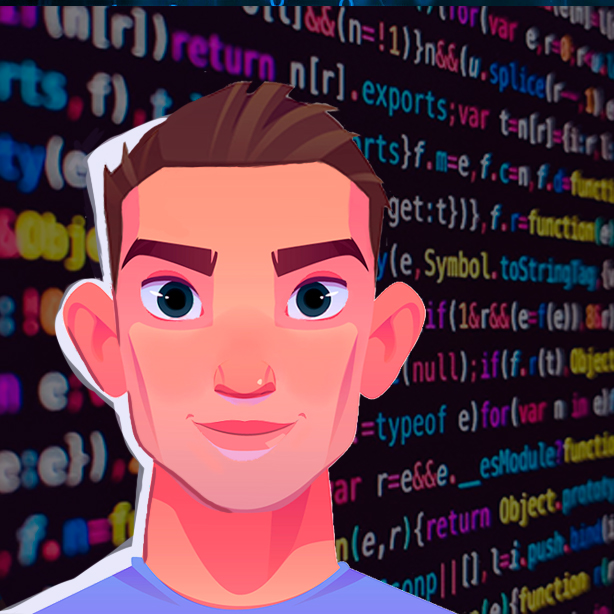
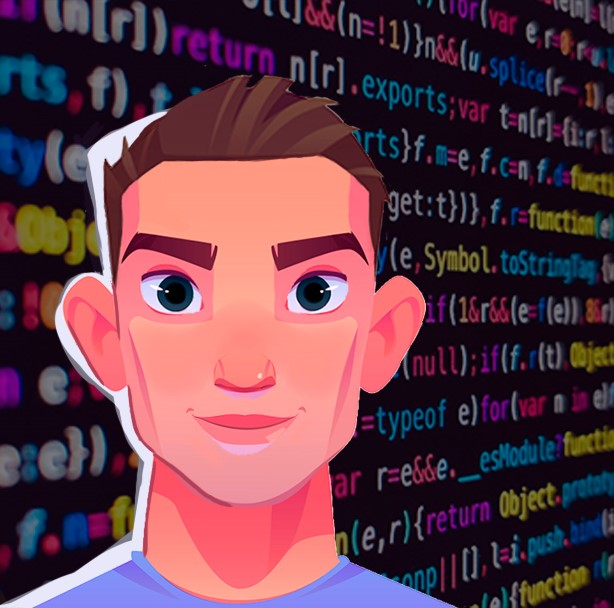
firefox bug fixed

diff --git a/app/css/style.min.css b/app/css/style.min.css
@@ -2,4 +2,4 @@
 
 /*! normalize.css v8.0.1 | MIT License | github.com/necolas/normalize.css */html{line-height:1.15;-webkit-text-size-adjust:100%}body{margin:0}main{display:block}h1{font-size:2em;margin:0.67em 0}hr{-webkit-box-sizing:content-box;box-sizing:content-box;height:0;overflow:visible}pre{font-family:monospace, monospace;font-size:1em}a{background-color:transparent}abbr[title]{border-bottom:none;text-decoration:underline;-webkit-text-decoration:underline dotted;text-decoration:underline dotted}b,strong{font-weight:bolder}code,kbd,samp{font-family:monospace, monospace;font-size:1em}small{font-size:80%}sub,sup{font-size:75%;line-height:0;position:relative;vertical-align:baseline}sub{bottom:-0.25em}sup{top:-0.5em}img{border-style:none}button,input,optgroup,select,textarea{font-family:inherit;font-size:100%;line-height:1.15;margin:0}button,input{overflow:visible}button,select{text-transform:none}button,[type="button"],[type="reset"],[type="submit"]{-webkit-appearance:button}button::-moz-focus-inner,[type="button"]::-moz-focus-inner,[type="reset"]::-moz-focus-inner,[type="submit"]::-moz-focus-inner{border-style:none;padding:0}button:-moz-focusring,[type="button"]:-moz-focusring,[type="reset"]:-moz-focusring,[type="submit"]:-moz-focusring{outline:1px dotted ButtonText}fieldset{padding:0.35em 0.75em 0.625em}legend{-webkit-box-sizing:border-box;box-sizing:border-box;color:inherit;display:table;max-width:100%;padding:0;white-space:normal}progress{vertical-align:baseline}textarea{overflow:auto}[type="checkbox"],[type="radio"]{-webkit-box-sizing:border-box;box-sizing:border-box;padding:0}[type="number"]::-webkit-inner-spin-button,[type="number"]::-webkit-outer-spin-button{height:auto}[type="search"]{-webkit-appearance:textfield;outline-offset:-2px}[type="search"]::-webkit-search-decoration{-webkit-appearance:none}::-webkit-file-upload-button{-webkit-appearance:button;font:inherit}details{display:block}summary{display:list-item}template{display:none}[hidden]{display:none}
 
-html{-webkit-box-sizing:border-box;box-sizing:border-box}*,*:before,*:after{-webkit-box-sizing:inherit;box-sizing:inherit;margin:0;padding:0}body{font-family:'Oswald', sans-serif;overflow:hidden}a{text-decoration:none;display:inline-block;color:#000}h1,h2,h3,h4,h6,h5,p{margin:0;font-size:15px;padding:0;font-weight:400}li{display:inline-block}.container{padding:50px 25px}.main{background-image:url("../img/bck.jpg");background-size:cover;background-repeat:no-repeat;background-position:center;background-color:#bebebe;height:100vh;width:100%;display:-webkit-box;display:-ms-flexbox;display:flex;-webkit-box-align:center;-ms-flex-align:center;align-items:center;-webkit-box-pack:center;-ms-flex-pack:center;justify-content:center}.album{position:relative;height:600px;width:600px;-webkit-perspective:1600px;perspective:1600px}.album__sheet{width:100%;height:100%;-webkit-transform-style:preserve-3d;transform-style:preserve-3d;position:absolute}.album__sheet-first{z-index:5;-webkit-transform-origin:left center;-ms-transform-origin:left center;transform-origin:left center}.album__sheet-first.open{-webkit-animation:album-open 0.5s 0s both;animation:album-open 0.5s 0s both}.album__sheet-first.close{-webkit-animation:album-close 0.5s 0.5s both;animation:album-close 0.5s 0.5s both}.album__sheet-second{z-index:3}.album__sheet-third{z-index:4;-webkit-transform-origin:right center;-ms-transform-origin:right center;transform-origin:right center}.album__sheet-third.open{-webkit-animation:album-open-back 0.5s 0.5s both;animation:album-open-back 0.5s 0.5s both}.album__sheet-third.close{-webkit-animation:album-close-back 0.5s 0s both;animation:album-close-back 0.5s 0s both}.album__page{position:absolute;left:0;top:0;width:100%;height:100%;-webkit-backface-visibility:hidden;backface-visibility:hidden;-webkit-animation-fill-mode:both;animation-fill-mode:both;-webkit-box-shadow:0 0 10px rgba(0,0,0,0.5);box-shadow:0 0 10px rgba(0,0,0,0.5);background-image:url("../img/paper.jpeg");background-size:cover;background-position:center;background-repeat:no-repeat}.page__front{color:#fff;background-image:url("../img/front-2.jpg");background-size:contain;background-position:center;background-repeat:no-repeat;background-color:#37b6ce;font-weight:700;text-transform:uppercase;z-index:3;text-shadow:0 0 5px #000}.page__front-title{margin-top:30px;text-align:center;font-size:50px;font-weight:700;text-shadow:#253e45 -1px 1px 0, #253e45 -2px 2px 0, #d45848 -3px 3px 0, #d45848 -4px 4px 0}.page__front-subtitle{text-align:center;margin-top:15px;font-size:23px;color:#ffbf40}.page__front-items{margin-top:70px;margin-left:30px;display:-webkit-box;display:-ms-flexbox;display:flex;-webkit-box-orient:vertical;-webkit-box-direction:normal;-ms-flex-direction:column;flex-direction:column}.front__item-title{font-size:20px;color:#ffaa00;font-weight:700}.front__item-subtitle{font-size:24px}.front__item:not(:last-child){margin-bottom:70px}.inner-page{overflow-y:auto}.inner-page__title-wrapper{position:relative;text-align:center}.inner-page__title-wrapper:before{content:"";width:100%;height:1px;background-color:#ccc;position:absolute;top:50%;left:0;z-index:-1}.inner-page__title{padding:10px 20px;background-color:#333;color:#fff;text-transform:uppercase;font-size:22px;border-radius:8px}.page__1{background-color:white;-webkit-transform:rotateY(160deg);transform:rotateY(160deg);left:-600px;-webkit-transform-origin:right center;-ms-transform-origin:right center;transform-origin:right center}.about__items{margin-top:50px}.about__item{position:relative;margin-left:80px;line-height:22px}.about__item:not(:last-child){margin-bottom:20px}.about__item::before{content:"";position:absolute;left:-60px;background-image:url(../img/java.svg);background-position:center;background-size:cover;height:40px;width:40px}.java-item::before{background-image:url(../img/java.svg)}.android-item::before{background-image:url(../img/android.svg)}.html-item::before{background-image:url(../img/html.svg)}.setting-item::before{background-image:url(../img/setting.svg)}.about__books{width:100%}.page__2{z-index:1}.works__items{margin-top:30px;display:-webkit-box;display:-ms-flexbox;display:flex;-webkit-box-pack:justify;-ms-flex-pack:justify;justify-content:space-between;-ms-flex-wrap:wrap;flex-wrap:wrap}.works__item{margin-bottom:10px;-webkit-box-shadow:0 0 2px #333;box-shadow:0 0 2px #333;background-position:center;background-repeat:no-repeat;background-size:cover;cursor:-webkit-zoom-in;cursor:zoom-in;width:150px;height:150px;background-color:#b348d4;margin-top:20px;-webkit-filter:grayscale(0.8);filter:grayscale(0.8);-webkit-transition:-webkit-filter 0.5s;transition:-webkit-filter 0.5s;-o-transition:filter 0.5s;transition:filter 0.5s;transition:filter 0.5s, -webkit-filter 0.5s}.works__item:hover{-webkit-filter:grayscale(0);filter:grayscale(0)}.page__3{left:600px;-webkit-transform-origin:left center;-ms-transform-origin:left center;transform-origin:left center;-webkit-transform:rotateY(-160deg);transform:rotateY(-160deg)}.page__back{background:blue;-webkit-transform-origin:right center;-ms-transform-origin:right center;transform-origin:right center;z-index:2}.connect__cancel{position:absolute;background-image:url("../img/cancel.svg");width:30px;height:30px;background-size:cover;top:15px;right:20px;cursor:pointer}.album__btn{position:absolute;background-color:transparent;bottom:10px;right:20px;height:70px;width:50px;cursor:pointer;border:none}.album__btn:before{content:"";display:block;border-top:25px solid #d4485b;border-left:25px solid #d4485b;border-right:25px solid #d4485b;border-bottom:50px solid transparent}.album__btn.show{-webkit-animation:btn_show 1s 1s both, btn_twitch 2s 2s infinite;animation:btn_show 1s 1s both, btn_twitch 2s 2s infinite}.album__btn.close{-webkit-animation:btn_close 1s both;animation:btn_close 1s both}.connect__line{width:100%}.coonect__input-wrapper{display:-webkit-box;display:-ms-flexbox;display:flex;margin-bottom:10px}.connect__form-name,.connect__form-email,.connect__form-text{background-color:transparent;border-top:none;border-left:none;border-right:none;border-bottom:1ps solid #333;resize:none;padding:10px}.connect__form-name{-webkit-box-flex:3;-ms-flex-positive:3;flex-grow:3}.connect__form-email{-webkit-box-flex:1;-ms-flex-positive:1;flex-grow:1;margin-left:5px}.connect__form-text{display:block;width:100%}.connect__form-button{display:block;width:100px;height:50px;margin:10px 0 0 auto;color:#fff;background-color:#333;cursor:pointer}.connect__map{width:100%;height:200px;margin-top:50px}.popups{position:absolute;cursor:-webkit-zoom-out;cursor:zoom-out;display:-webkit-box;display:-ms-flexbox;display:flex;-webkit-box-pack:center;-ms-flex-pack:center;justify-content:center;-webkit-box-align:center;-ms-flex-align:center;align-items:center;width:100%;height:100%;background-color:rgba(35,55,61,0.7);top:0;left:0;visibility:hidden;-webkit-transition:all 0.3s;-o-transition:all 0.3s;transition:all 0.3s;opacity:0}.popups.open{visibility:visible;opacity:1}.popup{width:1000px;display:none;-webkit-box-shadow:0 0 5px #000;box-shadow:0 0 5px #000;background-color:#ebe9dc}.popup.open{display:block}.popup .popup__img{height:85%}.popup__img{cursor:pointer;width:100%}.popup__text{padding:25px 10px;text-align:center;font-size:18px}@-webkit-keyframes album-open{from{-webkit-transform:rotateY(0deg);transform:rotateY(0deg)}to{-webkit-transform:rotateY(-160deg);transform:rotateY(-160deg)}}@keyframes album-open{from{-webkit-transform:rotateY(0deg);transform:rotateY(0deg)}to{-webkit-transform:rotateY(-160deg);transform:rotateY(-160deg)}}@-webkit-keyframes album-open-back{from{-webkit-transform:rotateY(0deg);transform:rotateY(0deg)}to{-webkit-transform:rotateY(160deg);transform:rotateY(160deg)}}@keyframes album-open-back{from{-webkit-transform:rotateY(0deg);transform:rotateY(0deg)}to{-webkit-transform:rotateY(160deg);transform:rotateY(160deg)}}@-webkit-keyframes album-close-back{from{-webkit-transform:rotateY(160deg);transform:rotateY(160deg)}to{-webkit-transform:rotateY(0deg);transform:rotateY(0deg)}}@keyframes album-close-back{from{-webkit-transform:rotateY(160deg);transform:rotateY(160deg)}to{-webkit-transform:rotateY(0deg);transform:rotateY(0deg)}}@-webkit-keyframes album-close{from{-webkit-transform:rotateY(-160deg);transform:rotateY(-160deg)}to{-webkit-transform:rotateY(0deg);transform:rotateY(0deg)}}@keyframes album-close{from{-webkit-transform:rotateY(-160deg);transform:rotateY(-160deg)}to{-webkit-transform:rotateY(0deg);transform:rotateY(0deg)}}@-webkit-keyframes album-page-1-open{from{-webkit-transform:rotateY(160deg);transform:rotateY(160deg)}to{-webkit-transform:rotateY(0deg);transform:rotateY(0deg)}}@keyframes album-page-1-open{from{-webkit-transform:rotateY(160deg);transform:rotateY(160deg)}to{-webkit-transform:rotateY(0deg);transform:rotateY(0deg)}}@-webkit-keyframes album-page-1-close{from{-webkit-transform:rotateY(0deg);transform:rotateY(0deg)}to{-webkit-transform:rotateY(160deg);transform:rotateY(160deg)}}@keyframes album-page-1-close{from{-webkit-transform:rotateY(0deg);transform:rotateY(0deg)}to{-webkit-transform:rotateY(160deg);transform:rotateY(160deg)}}@-webkit-keyframes album-page-3-open{from{-webkit-transform:rotateY(-160deg);transform:rotateY(-160deg)}to{-webkit-transform:rotateY(0deg);transform:rotateY(0deg)}}@keyframes album-page-3-open{from{-webkit-transform:rotateY(-160deg);transform:rotateY(-160deg)}to{-webkit-transform:rotateY(0deg);transform:rotateY(0deg)}}@-webkit-keyframes album-page-3-close{from{-webkit-transform:rotateY(0deg);transform:rotateY(0deg)}to{-webkit-transform:rotateY(-160deg);transform:rotateY(-160deg)}}@keyframes album-page-3-close{from{-webkit-transform:rotateY(0deg);transform:rotateY(0deg)}to{-webkit-transform:rotateY(-160deg);transform:rotateY(-160deg)}}@-webkit-keyframes btn_twitch{0%{bottom:-65px}33%{bottom:-55px}66%{bottom:-65px}}@keyframes btn_twitch{0%{bottom:-65px}33%{bottom:-55px}66%{bottom:-65px}}@-webkit-keyframes btn_show{from{bottom:10px}to{bottom:-65px}}@keyframes btn_show{from{bottom:10px}to{bottom:-65px}}@-webkit-keyframes btn_close{from{bottom:-65px}to{bottom:10px}}@keyframes btn_close{from{bottom:-65px}to{bottom:10px}}
+html{-webkit-box-sizing:border-box;box-sizing:border-box}*,*:before,*:after{-webkit-box-sizing:inherit;box-sizing:inherit;margin:0;padding:0}body{font-family:'Oswald', sans-serif;overflow:hidden}a{text-decoration:none;display:inline-block;color:#000}h1,h2,h3,h4,h6,h5,p{margin:0;font-size:15px;padding:0;font-weight:400}li{display:inline-block}.container{padding:50px 25px}.main{background-image:url("../img/black.jpg");background-size:cover;background-repeat:no-repeat;background-position:center;background-color:#bebebe;height:100vh;width:100%;display:-webkit-box;display:-ms-flexbox;display:flex;-webkit-box-align:center;-ms-flex-align:center;align-items:center;-webkit-box-pack:center;-ms-flex-pack:center;justify-content:center}.album{position:relative;height:600px;width:600px;-webkit-perspective:1600px;perspective:1600px}.album__sheet{width:100%;height:100%;-webkit-transform-style:preserve-3d;transform-style:preserve-3d;position:absolute}@-moz-document url-prefix(){.album__sheet{backface-visibility:hidden}}.album__sheet-first{z-index:5;-webkit-transform-origin:left center;-ms-transform-origin:left center;transform-origin:left center}.album__sheet-first.open{-webkit-animation:album-open 0.5s 0s both;animation:album-open 0.5s 0s both}.album__sheet-first.close{-webkit-animation:album-close 0.5s 0.5s both;animation:album-close 0.5s 0.5s both}.album__sheet-second{z-index:3}.album__sheet-third{z-index:4;-webkit-transform-origin:right center;-ms-transform-origin:right center;transform-origin:right center}.album__sheet-third.open{-webkit-animation:album-open-back 0.5s 0.5s both;animation:album-open-back 0.5s 0.5s both}.album__sheet-third.close{-webkit-animation:album-close-back 0.5s 0s both;animation:album-close-back 0.5s 0s both}.album__page{position:absolute;left:0;top:0;width:100%;height:100%;-webkit-backface-visibility:hidden;backface-visibility:hidden;-webkit-animation-fill-mode:both;animation-fill-mode:both;-webkit-box-shadow:0 0 10px rgba(0,0,0,0.5);box-shadow:0 0 10px rgba(0,0,0,0.5);background-image:url("../img/paper.jpeg");background-size:cover;background-position:center;background-repeat:no-repeat}.page__front{color:#fff;background-image:url("../img/front-2.jpg");background-size:cover;background-position:center;background-repeat:no-repeat;font-weight:700;text-transform:uppercase;z-index:3;text-shadow:0 0 5px #000}.page__front-title{margin-top:30px;text-align:center;font-size:50px;font-weight:700;text-shadow:#253e45 -1px 1px 0, #253e45 -2px 2px 0, #d45848 -3px 3px 0, #d45848 -4px 4px 0}.page__front-subtitle{text-align:center;margin-top:15px;font-size:23px;color:#ffbf40}.page__front-items{margin-top:70px;margin-left:30px;display:-webkit-box;display:-ms-flexbox;display:flex;-webkit-box-orient:vertical;-webkit-box-direction:normal;-ms-flex-direction:column;flex-direction:column}.front__item-title{font-size:20px;color:#ffaa00;font-weight:700}.front__item-subtitle{font-size:24px}.front__item:not(:last-child){margin-bottom:70px}.inner-page{overflow-y:auto}.inner-page__title-wrapper{position:relative;text-align:center}.inner-page__title-wrapper:before{content:"";width:100%;height:1px;background-color:#ccc;position:absolute;top:50%;left:0;z-index:-1}.inner-page__title{padding:10px 20px;background-color:#333;color:#fff;text-transform:uppercase;font-size:22px;border-radius:8px}.page__1{background-color:white;-webkit-transform:rotateY(160deg);transform:rotateY(160deg);left:-600px;-webkit-transform-origin:right center;-ms-transform-origin:right center;transform-origin:right center}.about__items{margin-top:50px}.about__item{position:relative;margin-left:80px;line-height:22px}.about__item:not(:last-child){margin-bottom:20px}.about__item::before{content:"";position:absolute;left:-60px;background-image:url(../img/java.svg);background-position:center;background-size:cover;height:40px;width:40px}.java-item::before{background-image:url(../img/java.svg)}.android-item::before{background-image:url(../img/android.svg)}.html-item::before{background-image:url(../img/html.svg)}.setting-item::before{background-image:url(../img/setting.svg)}.about__books{width:100%}.page__2{z-index:1}.works__items{margin-top:30px;display:-webkit-box;display:-ms-flexbox;display:flex;-webkit-box-pack:justify;-ms-flex-pack:justify;justify-content:space-between;-ms-flex-wrap:wrap;flex-wrap:wrap}.works__item{margin-bottom:10px;-webkit-box-shadow:0 0 2px #333;box-shadow:0 0 2px #333;background-position:center;background-repeat:no-repeat;background-size:cover;cursor:-webkit-zoom-in;cursor:zoom-in;width:150px;height:150px;background-color:#b348d4;margin-top:20px;-webkit-filter:grayscale(0.8);filter:grayscale(0.8);-webkit-transition:-webkit-filter 0.5s;transition:-webkit-filter 0.5s;-o-transition:filter 0.5s;transition:filter 0.5s;transition:filter 0.5s, -webkit-filter 0.5s}.works__item:hover{-webkit-filter:grayscale(0);filter:grayscale(0)}.page__3{left:600px;-webkit-transform-origin:left center;-ms-transform-origin:left center;transform-origin:left center;-webkit-transform:rotateY(-160deg);transform:rotateY(-160deg)}.page__back{background:blue;-webkit-transform-origin:right center;-ms-transform-origin:right center;transform-origin:right center;z-index:2}.connect__cancel{position:absolute;background-image:url("../img/cancel.svg");width:30px;height:30px;background-size:cover;top:15px;right:20px;cursor:pointer}.album__btn{position:absolute;background-color:transparent;bottom:10px;right:20px;height:70px;width:50px;cursor:pointer;border:none}.album__btn:before{content:"";display:block;border-top:25px solid #d4485b;border-left:25px solid #d4485b;border-right:25px solid #d4485b;border-bottom:50px solid transparent}.album__btn.show{-webkit-animation:btn_show 1s 1s both, btn_twitch 2s 2s infinite;animation:btn_show 1s 1s both, btn_twitch 2s 2s infinite}.album__btn.close{-webkit-animation:btn_close 1s both;animation:btn_close 1s both}.connect__line{width:100%}.connect__text{text-align:center;font-size:18px;line-height:25px;margin-bottom:20px}.connect__telegram{cursor:pointer;display:inline-block;margin-bottom:-20px;width:50px;height:50px;background-size:cover;background-position:center;background-repeat:no-repeat}.coonect__input-wrapper{display:-webkit-box;display:-ms-flexbox;display:flex;margin-bottom:10px}.connect__form-name,.connect__form-email,.connect__form-text{background-color:transparent;border-top:none;border-left:none;border-right:none;border-bottom:1ps solid #333;resize:none;padding:10px}.connect__form-name{-webkit-box-flex:3;-ms-flex-positive:3;flex-grow:3}.connect__form-email{-webkit-box-flex:1;-ms-flex-positive:1;flex-grow:1;margin-left:5px}.connect__form-text{display:block;width:100%}.connect__form-button{display:block;width:100px;height:50px;margin:10px 0 0 auto;color:#fff;background-color:#333;cursor:pointer}.connect__map{width:100%;height:200px;margin-top:50px}.popups{position:absolute;cursor:-webkit-zoom-out;cursor:zoom-out;display:-webkit-box;display:-ms-flexbox;display:flex;-webkit-box-pack:center;-ms-flex-pack:center;justify-content:center;-webkit-box-align:center;-ms-flex-align:center;align-items:center;width:100%;height:100%;background-color:rgba(35,55,61,0.7);top:0;left:0;visibility:hidden;-webkit-transition:all 0.3s;-o-transition:all 0.3s;transition:all 0.3s;opacity:0}.popups.open{visibility:visible;opacity:1}.popup{width:1000px;display:none;-webkit-box-shadow:0 0 5px #000;box-shadow:0 0 5px #000;background-color:#ebe9dc}.popup.open{display:block}.popup .popup__img{height:85%}.popup__img{cursor:pointer;width:100%}.popup__text{padding:25px 10px;text-align:center;font-size:18px}@-webkit-keyframes album-open{from{-webkit-transform:rotateY(0deg);transform:rotateY(0deg)}to{-webkit-transform:rotateY(-160deg);transform:rotateY(-160deg)}}@keyframes album-open{from{-webkit-transform:rotateY(0deg);transform:rotateY(0deg)}to{-webkit-transform:rotateY(-160deg);transform:rotateY(-160deg)}}@-webkit-keyframes album-open-back{from{-webkit-transform:rotateY(0deg);transform:rotateY(0deg)}to{-webkit-transform:rotateY(160deg);transform:rotateY(160deg)}}@keyframes album-open-back{from{-webkit-transform:rotateY(0deg);transform:rotateY(0deg)}to{-webkit-transform:rotateY(160deg);transform:rotateY(160deg)}}@-webkit-keyframes album-close-back{from{-webkit-transform:rotateY(160deg);transform:rotateY(160deg)}to{-webkit-transform:rotateY(0deg);transform:rotateY(0deg)}}@keyframes album-close-back{from{-webkit-transform:rotateY(160deg);transform:rotateY(160deg)}to{-webkit-transform:rotateY(0deg);transform:rotateY(0deg)}}@-webkit-keyframes album-close{from{-webkit-transform:rotateY(-160deg);transform:rotateY(-160deg)}to{-webkit-transform:rotateY(0deg);transform:rotateY(0deg)}}@keyframes album-close{from{-webkit-transform:rotateY(-160deg);transform:rotateY(-160deg)}to{-webkit-transform:rotateY(0deg);transform:rotateY(0deg)}}@-webkit-keyframes album-page-1-open{from{-webkit-transform:rotateY(160deg);transform:rotateY(160deg)}to{-webkit-transform:rotateY(0deg);transform:rotateY(0deg)}}@keyframes album-page-1-open{from{-webkit-transform:rotateY(160deg);transform:rotateY(160deg)}to{-webkit-transform:rotateY(0deg);transform:rotateY(0deg)}}@-webkit-keyframes album-page-1-close{from{-webkit-transform:rotateY(0deg);transform:rotateY(0deg)}to{-webkit-transform:rotateY(160deg);transform:rotateY(160deg)}}@keyframes album-page-1-close{from{-webkit-transform:rotateY(0deg);transform:rotateY(0deg)}to{-webkit-transform:rotateY(160deg);transform:rotateY(160deg)}}@-webkit-keyframes album-page-3-open{from{-webkit-transform:rotateY(-160deg);transform:rotateY(-160deg)}to{-webkit-transform:rotateY(0deg);transform:rotateY(0deg)}}@keyframes album-page-3-open{from{-webkit-transform:rotateY(-160deg);transform:rotateY(-160deg)}to{-webkit-transform:rotateY(0deg);transform:rotateY(0deg)}}@-webkit-keyframes album-page-3-close{from{-webkit-transform:rotateY(0deg);transform:rotateY(0deg)}to{-webkit-transform:rotateY(-160deg);transform:rotateY(-160deg)}}@keyframes album-page-3-close{from{-webkit-transform:rotateY(0deg);transform:rotateY(0deg)}to{-webkit-transform:rotateY(-160deg);transform:rotateY(-160deg)}}@-webkit-keyframes btn_twitch{0%{bottom:-65px}33%{bottom:-55px}66%{bottom:-65px}}@keyframes btn_twitch{0%{bottom:-65px}33%{bottom:-55px}66%{bottom:-65px}}@-webkit-keyframes btn_show{from{bottom:10px}to{bottom:-65px}}@keyframes btn_show{from{bottom:10px}to{bottom:-65px}}@-webkit-keyframes btn_close{from{bottom:-65px}to{bottom:10px}}@keyframes btn_close{from{bottom:-65px}to{bottom:10px}}

diff --git a/app/scss/_book.scss b/app/scss/_book.scss
@@ -1,5 +1,5 @@
 .main {
-  background-image: url("../img/bck.jpg");
+  background-image: url("../img/black.jpg");
   background-size: cover;
   background-repeat: no-repeat;
   background-position: center;
@@ -9,7 +9,6 @@
   display: flex;
   align-items: center;
   justify-content: center;
-
 }
 
 .album {
@@ -24,6 +23,12 @@
   height: 100%;
   transform-style: preserve-3d;
   position: absolute;
+}
+//fix firefox bug: bacface-visibility dublicated for parent 
+@-moz-document url-prefix() {
+  .album__sheet {
+    backface-visibility: hidden;;
+  }
 }
 
 .album__sheet-first {
@@ -51,6 +56,7 @@
     animation: album-close-back 0.5s 0s both;
   }
 }
+
 .album__page {
   position: absolute;
   left: 0;
@@ -69,15 +75,13 @@
 .page__front {
   color: #fff;
   background-image: url("../img/front-2.jpg");
-  background-size: contain;
+  background-size: cover;
   background-position: center;
   background-repeat: no-repeat;
-  background-color: #37b6ce;
   font-weight: 700;
   text-transform: uppercase;
   z-index: 3;
   text-shadow: 0 0 5px #000;
-
 }
 .page__front-title {
   margin-top: 30px;
@@ -200,7 +204,6 @@
   z-index: 1;
 }
 
-
 .works__items {
   margin-top: 30px;
   display: flex;
@@ -237,7 +240,6 @@
   z-index: 2;
 }
 
-
 .connect__cancel {
   position: absolute;
   background-image: url("../img/cancel.svg");
@@ -268,7 +270,7 @@
   }
 }
 .album__btn.show {
-  animation:  btn_show 1s 1s both, btn_twitch 2s 2s infinite;
+  animation: btn_show 1s 1s both, btn_twitch 2s 2s infinite;
 }
 .album__btn.close {
   animation: btn_close 1s both;
@@ -277,7 +279,22 @@
 .connect__line {
   width: 100%;
 }
-
+.connect__text {
+  text-align: center;
+  font-size: 18px;
+  line-height: 25px;
+  margin-bottom: 20px;
+}
+.connect__telegram {
+  cursor: pointer;
+  display: inline-block;
+  margin-bottom: -20px;
+  width: 50px;
+  height: 50px;
+  background-size: cover;
+  background-position: center;
+  background-repeat: no-repeat;
+}
 .coonect__input-wrapper {
   display: flex;
   margin-bottom: 10px;
@@ -285,8 +302,7 @@
 
 .connect__form-name,
 .connect__form-email,
-.connect__form-text
- {
+.connect__form-text {
   background-color: transparent;
   border-top: none;
   border-left: none;
@@ -315,16 +331,14 @@
   background-color: #333;
   cursor: pointer;
 }
-//map 
+//map
 .connect__map {
   width: 100%;
   height: 200px;
   margin-top: 50px;
 }
 
-
-
-//popups 
+//popups
 .popups {
   position: absolute;
   cursor: zoom-out;
@@ -346,11 +360,10 @@
 }
 
 .popup {
-  
   width: 1000px;
   display: none;
   box-shadow: 0 0 5px #000;
-  
+
   background-color: #ebe9dc;
   &.open {
     display: block;
@@ -368,7 +381,6 @@
   padding: 25px 10px;
   text-align: center;
   font-size: 18px;
-  
 }
 
 //animations

diff --git a/app/components/index.html b/app/components/index.html
@@ -29,6 +29,12 @@
                             src="https://www.google.com/maps/embed?pb=!1m18!1m12!1m3!1d30212.31443024461!2d37.630756150276895!3d55.74905673881066!2m3!1f0!2f0!3f0!3m2!1i1024!2i768!4f13.1!3m3!1m2!1s0x46b54a5b4c576dbf%3A0x93a829189a1d29f2!2z0JHQvtC70YzRiNC-0Lkg0YLQtdCw0YLRgA!5e0!3m2!1sru!2sru!4v1637675318454!5m2!1sru!2sru"
                             style="border:0;" allowfullscreen="" loading="lazy"></iframe>
                         <img class="connect__line" src="img/line.png" alt="">
+                        <p class="connect__text">
+                            Напишите мне в <a class="connect__telegram-link" href="#"><span class="connect__telegram"
+                                    style="background-image: url(img/telegram.svg);"></span>
+                            </a>
+                            или заполните форму ниже:
+                        </p>
                         <form class="connect__form" action="">
                             <div class="coonect__input-wrapper">
                                 <input class="connect__form-name" placeholder="фио" type="text">
@@ -76,7 +82,7 @@
                                 и развиваться.
                                 Акутальный стек: HTML, CSS, SCSS, GULP, JQuery, JS. В процессе: WP, Bootstrap.
                             </li>
-                            <li class="about__item setting-item">Так же знаком с реляционными БД(работал с MySQ),
+                            <li class="about__item setting-item">Так же знаком с реляционными БД(работал с MySQL),
                                 алгоритмами, паттернами проектирования.
                             </li>
                         </ul>

diff --git a/app/index.html b/app/index.html
@@ -29,6 +29,12 @@
                             src="https://www.google.com/maps/embed?pb=!1m18!1m12!1m3!1d30212.31443024461!2d37.630756150276895!3d55.74905673881066!2m3!1f0!2f0!3f0!3m2!1i1024!2i768!4f13.1!3m3!1m2!1s0x46b54a5b4c576dbf%3A0x93a829189a1d29f2!2z0JHQvtC70YzRiNC-0Lkg0YLQtdCw0YLRgA!5e0!3m2!1sru!2sru!4v1637675318454!5m2!1sru!2sru"
                             style="border:0;" allowfullscreen="" loading="lazy"></iframe>
                         <img class="connect__line" src="img/line.png" alt="">
+                        <p class="connect__text">
+                            Напишите мне в <a class="connect__telegram-link" href="#"><span class="connect__telegram"
+                                    style="background-image: url(img/telegram.svg);"></span>
+                            </a>
+                            или заполните форму ниже:
+                        </p>
                         <form class="connect__form" action="">
                             <div class="coonect__input-wrapper">
                                 <input class="connect__form-name" placeholder="фио" type="text">
@@ -76,7 +82,7 @@
                                 и развиваться.
                                 Акутальный стек: HTML, CSS, SCSS, GULP, JQuery, JS. В процессе: WP, Bootstrap.
                             </li>
-                            <li class="about__item setting-item">Так же знаком с реляционными БД(работал с MySQ),
+                            <li class="about__item setting-item">Так же знаком с реляционными БД(работал с MySQL),
                                 алгоритмами, паттернами проектирования.
                             </li>
                         </ul>
